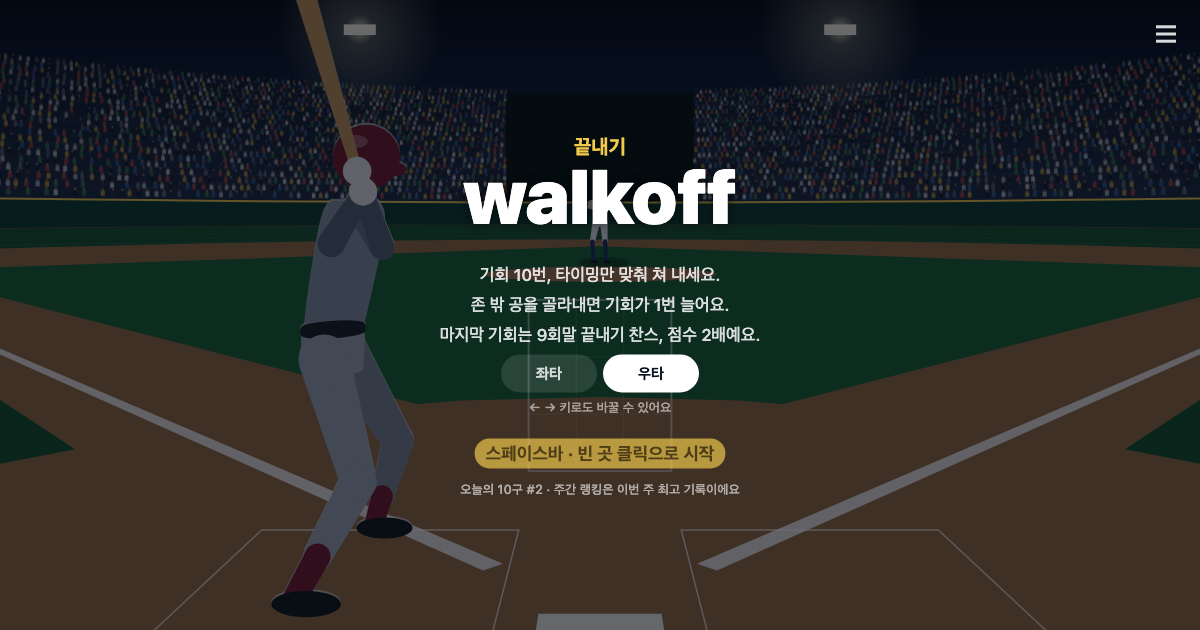
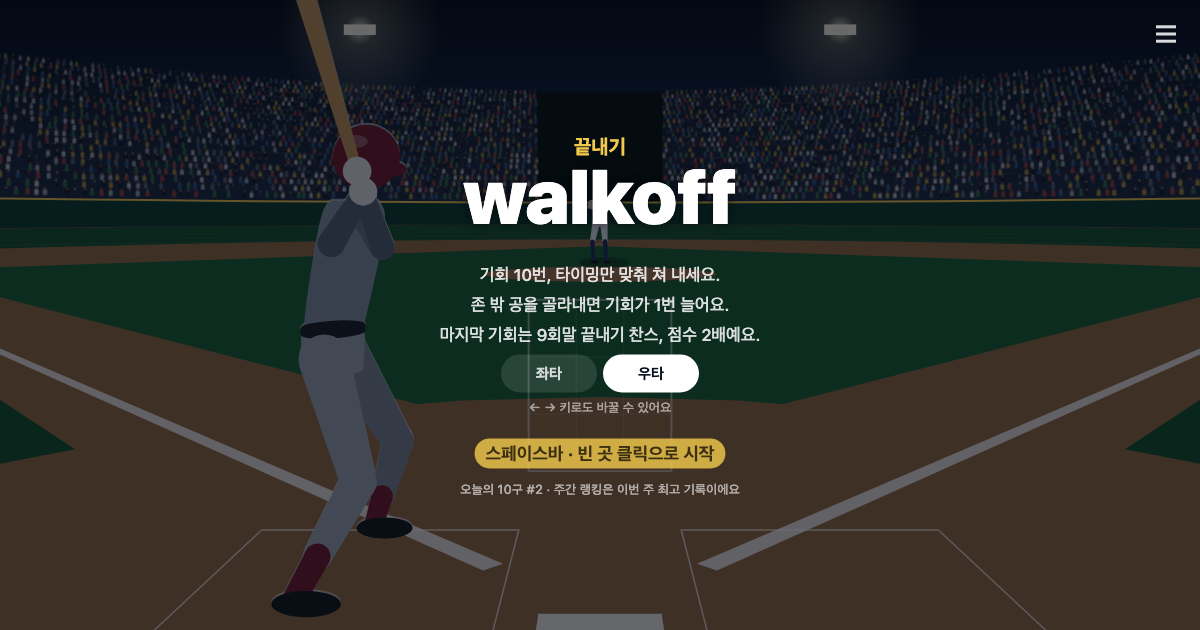
fix: 투수 뒤 관중 없는 칸을 ±4도로 좁히기
- 공을 놓는 곳이 ±1.6도라 ±4도면 충분하다. ±6도는 폰에서 화면 폭의 40%가 검었다
- 시작 화면이 바뀌어 og.png를 다시 만듦

Changed region(s): [[0.555, 0.0905, 1.0, 0.3317], [0.0, 0.0905, 0.4625, 0.3317]]

diff --git a/index.html b/index.html
@@ -486,7 +486,7 @@ function drawField() {
 // 투수 바로 뒤(가운데 ±CROWD_EYE도)는 실제 구장의 배터스 아이처럼 비운다. 공을 놓는 높이가 관중석과 겹쳐서 관중이 있으면 공이 묻힌다.
 // 수천 명을 매 화면 그리면 폰이 버거워서, 앉은 모습과 일어나 손을 든 모습을 한 번씩 따로 그려 두고(화면 크기·팀이 바뀔 때만 다시) 붙인다.
 // 안타·홈런·끝내기 때는 세로 띠마다 조금씩 다르게 일어났다 앉고, 홈런·끝내기에는 카메라 플래시가 터진다
-const CROWD_ROWS = 22, CROWD_EYE = 6;   // 관중석 줄 수, 가운데 비우는 각도(±도)
+const CROWD_ROWS = 22, CROWD_EYE = 4;   // 관중석 줄 수, 가운데 비우는 각도(±도). 공을 놓는 곳이 ±1.6도라 ±4도면 공이 관중에 묻히지 않는다(±6도는 폰에서 화면 폭의 40%가 검었다)
 const crowd = { key: '', sit: null, stand: null, res: 1, x0: 0, y0: 0, people: [], builds: 0, at: 0, dur: 0, power: 0 };
 
 function crowdPalette(teamId) {

diff --git a/tests/walkoff.spec.js b/tests/walkoff.spec.js
@@ -675,7 +675,7 @@ test.describe('화면', () => {
     await page.waitForFunction(() => walkoff.crowd.people.length > 0);
     const look = (team) => page.evaluate((team) => {
       const c = walkoff.crowd, main = walkoff.teamById(team).main, share = (arr) => arr.filter((q) => q.shirt === main).length / arr.length;
-      return { n: c.people.length, center: c.people.filter((q) => Math.abs(q.a) < 6).length, home: share(c.people.filter((q) => q.a > 0)), away: share(c.people.filter((q) => q.a < 0)), builds: c.builds };
+      return { n: c.people.length, center: c.people.filter((q) => Math.abs(q.a) < 4).length, home: share(c.people.filter((q) => q.a > 0)), away: share(c.people.filter((q) => q.a < 0)), builds: c.builds };
     }, team);
     const lg = await look('lg');
     expect(lg.n).toBeGreaterThan(2000);
